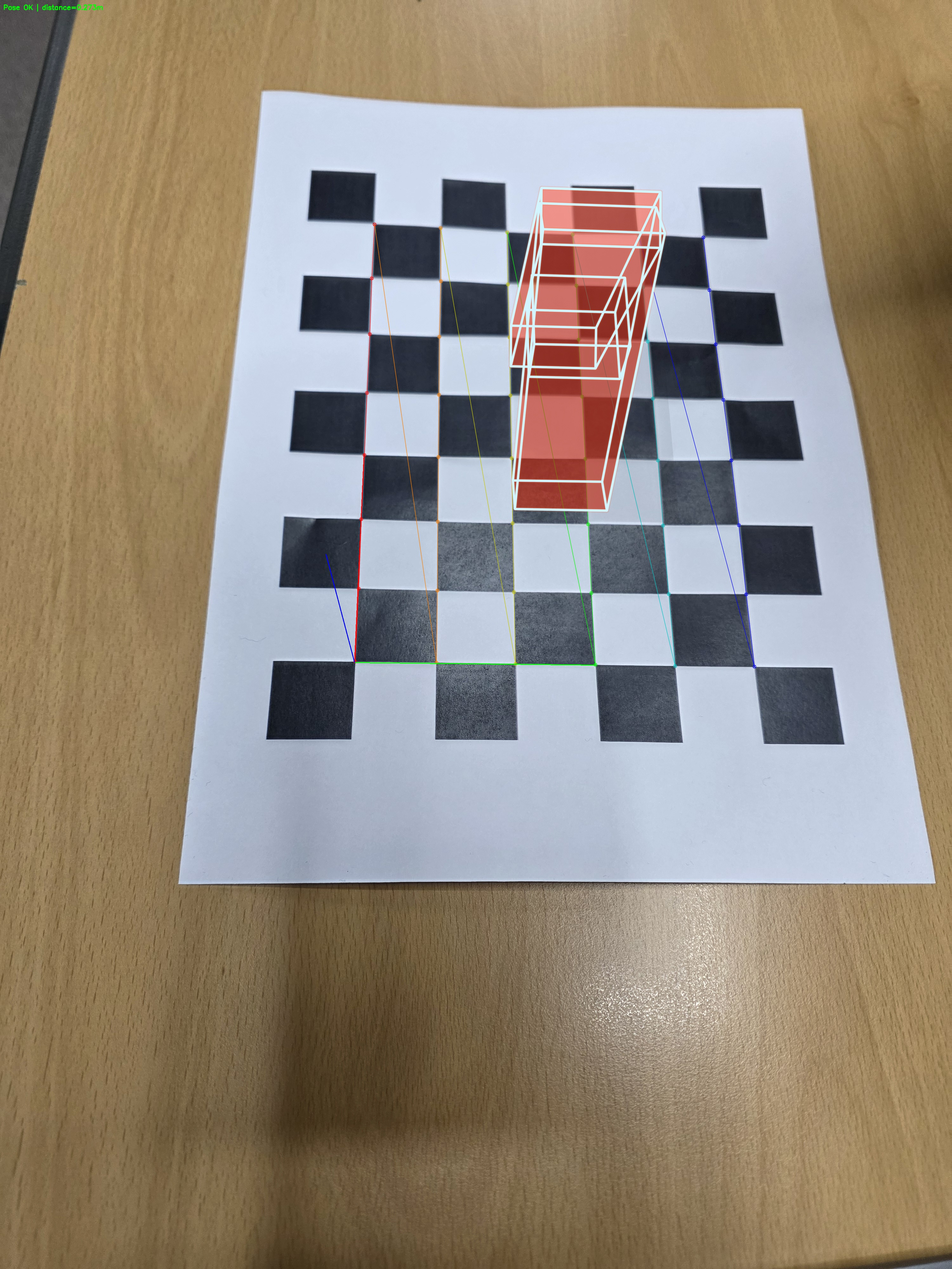
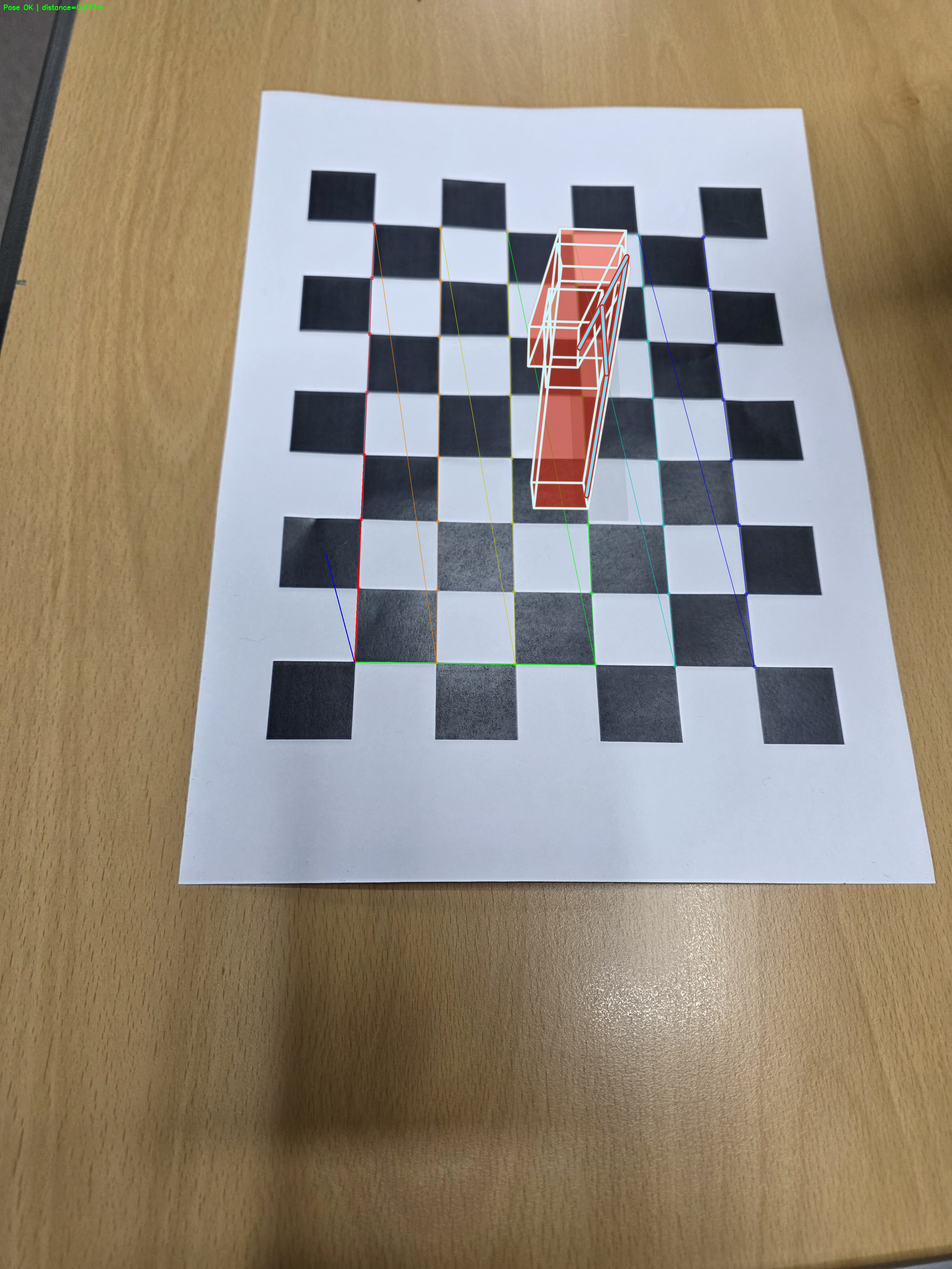
Fix AR rendering: Stabilize 3D A geometry and add explicit silhouette overlay for clear A-shape visibility

Changed region(s): [[0.527, 0.125, 0.713, 0.4062]]

diff --git a/pose_estimation_chessboard.py b/pose_estimation_chessboard.py
@@ -79,15 +79,15 @@ def build_ar_object_geometry(board_pattern, cell_size):
 
     # A는 x-z 평면에 세운 뒤 y축 방향으로 두께를 주어 입체화
     z_base = -min(board_w, board_h) * 0.04
-    z_top = -min(board_w, board_h) * 0.72
-    z_cross = -min(board_w, board_h) * 0.40
+    z_top = -min(board_w, board_h) * 0.62
+    z_cross = -min(board_w, board_h) * 0.36
 
     cross_left = board_w * 0.43
     cross_right = board_w * 0.57
 
     y_center = board_h * 0.52
-    beam_depth = board_h * 0.24
-    beam_width = min(board_w, board_h) * 0.115
+    beam_depth = board_h * 0.14
+    beam_width = min(board_w, board_h) * 0.11
 
     left_base = np.array([x_left, z_base], dtype=np.float32)
     apex = np.array([x_center, z_top], dtype=np.float32)
@@ -175,9 +175,21 @@ def build_ar_object_geometry(board_pattern, cell_size):
     shadow_vertices[:, 2] = 0.0
     shadow_vertices[:, 1] += beam_depth * 0.85
 
+    anchor_points = np.array(
+        [
+            [x_left, y_center + beam_depth * 0.52, z_base],
+            [x_center, y_center + beam_depth * 0.52, z_top],
+            [x_right, y_center + beam_depth * 0.52, z_base],
+            [cross_left, y_center + beam_depth * 0.52, z_cross],
+            [cross_right, y_center + beam_depth * 0.52, z_cross],
+        ],
+        dtype=np.float32,
+    )
+
     return {
         "vertices": vertices_arr,
         "shadow_vertices": shadow_vertices,
+        "anchor_points": anchor_points,
         "faces": faces,
         "edges": edges,
         "colors": colors,
@@ -259,6 +271,27 @@ def draw_letter_a_ar(frame, projected_vertices, rvec, tvec, K, dist_coeff, ar_ge
             tuple(projected_vertices[e]),
             (255, 245, 210),
             5,
+            lineType=cv.LINE_AA,
+        )
+
+    # 최종 실루엣을 강조해 어떤 시점에서도 A 형태가 명확하게 보이도록 보강
+    anchors2d = project_points(ar_geometry["anchor_points"], rvec, tvec, K, dist_coeff)
+    a_edges = [(0, 1), (1, 2), (3, 4)]
+    for s, e in a_edges:
+        cv.line(
+            frame,
+            tuple(anchors2d[s]),
+            tuple(anchors2d[e]),
+            (30, 40, 210),
+            16,
+            lineType=cv.LINE_AA,
+        )
+        cv.line(
+            frame,
+            tuple(anchors2d[s]),
+            tuple(anchors2d[e]),
+            (250, 220, 120),
+            7,
             lineType=cv.LINE_AA,
         )
 
